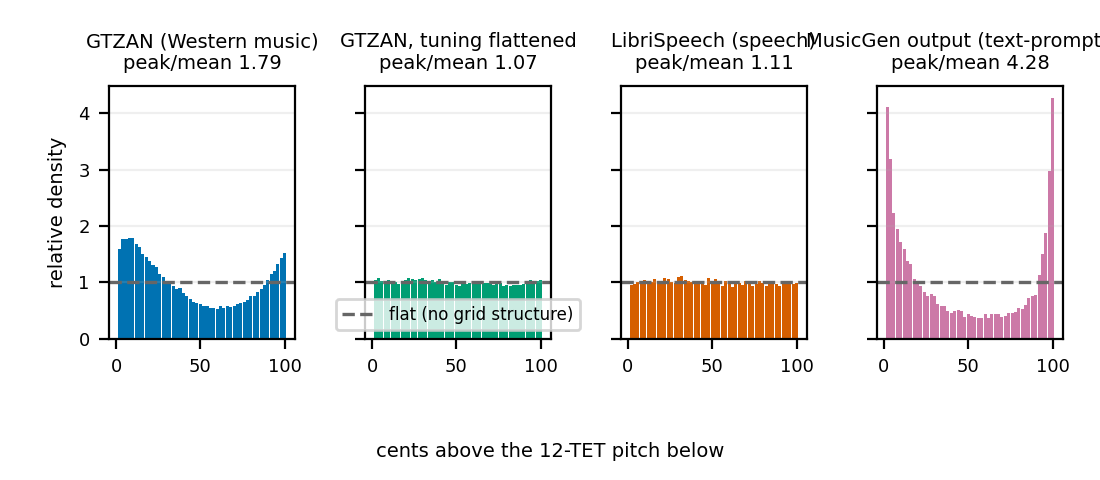
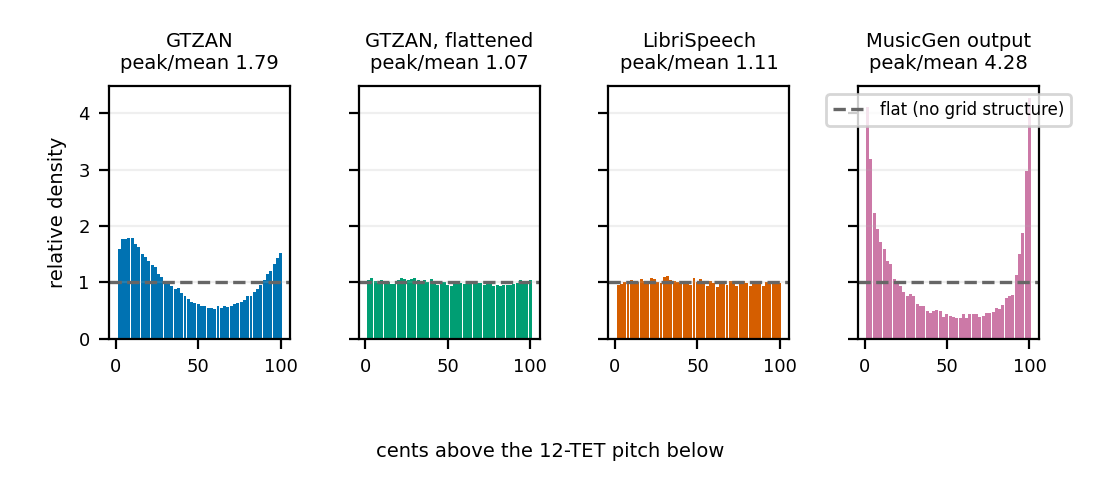
Histogram figure labels

diff --git a/analysis/plot_histograms.py b/analysis/plot_histograms.py
@@ -29,10 +29,10 @@ for _p in (_ROOT / "experiments", _ROOT / "analysis"):
 
 
 ROOT = Path(__file__).resolve().parent.parent
-SETS = [("hist_gtzan.csv", "GTZAN (Western music)", "#0072B2"),
-        ("hist_gtzan_detuned.csv", "GTZAN, tuning flattened", "#009E73"),
-        ("hist_librispeech.csv", "LibriSpeech (speech)", "#D55E00"),
-        ("hist_musicgen_text.csv", "MusicGen output (text-prompted)", "#CC79A7")]
+SETS = [("hist_gtzan.csv", "GTZAN", "#0072B2"),
+        ("hist_gtzan_detuned.csv", "GTZAN, flattened", "#009E73"),
+        ("hist_librispeech.csv", "LibriSpeech", "#D55E00"),
+        ("hist_musicgen_text.csv", "MusicGen output", "#CC79A7")]
 
 fig, axes = plt.subplots(1, len(SETS), figsize=(5.5, 2.4), sharey=True, squeeze=False)
 for ax, (fname, label, colour) in zip(axes[0], SETS):
@@ -50,8 +50,8 @@ for ax, (fname, label, colour) in zip(axes[0], SETS):
     ax.axhline(1.0, color="0.4", ls="--", lw=1.2, label="flat (no grid structure)")
     ax.set_title(f"{label}\npeak/mean {d.max():.2f}", fontsize=7)
     ax.tick_params(labelsize=6.5)
-    if ax is axes[0][1]:
-        ax.legend(fontsize=6, loc="lower center")
+    if ax is axes[0][-1]:
+        ax.legend(fontsize=6, loc="upper center")
     ax.grid(alpha=0.2, axis="y")
 axes[0][0].set_ylabel("relative density", fontsize=7)
 fig.supxlabel("cents above the 12-TET pitch below", fontsize=7, y=0.04)
